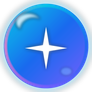
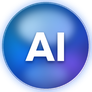
design(tabs): the AI tab is a larger coloured glass sphere with an AI mark, replacing the small clear pearl with the sparkle

diff --git a/src/widgets/tab-bar/NativeTabsBar.tsx b/src/widgets/tab-bar/NativeTabsBar.tsx
@@ -18,7 +18,7 @@ const SF: Record<string, string> = {
   headphones: "headphones", video: "video.fill", "bar-chart-2": "chart.bar.fill", sliders: "slider.horizontal.3", bell: "bell.fill", user: "person.fill",
 };
 
-// The AI tab: a glass pearl (clear bead, prismatic rim) that lights up with the brand gradient while the tab is open.
+// The AI tab: a coloured glass sphere (aurora under a glass lens, "AI" mark) that lights up with the brand gradient while the tab is open.
 installTabReach();
 
 const AI_PEARL = { default: require("../../../assets/tabs/ai-glass.png"), selected: require("../../../assets/tabs/ai-glass-on.png") };
